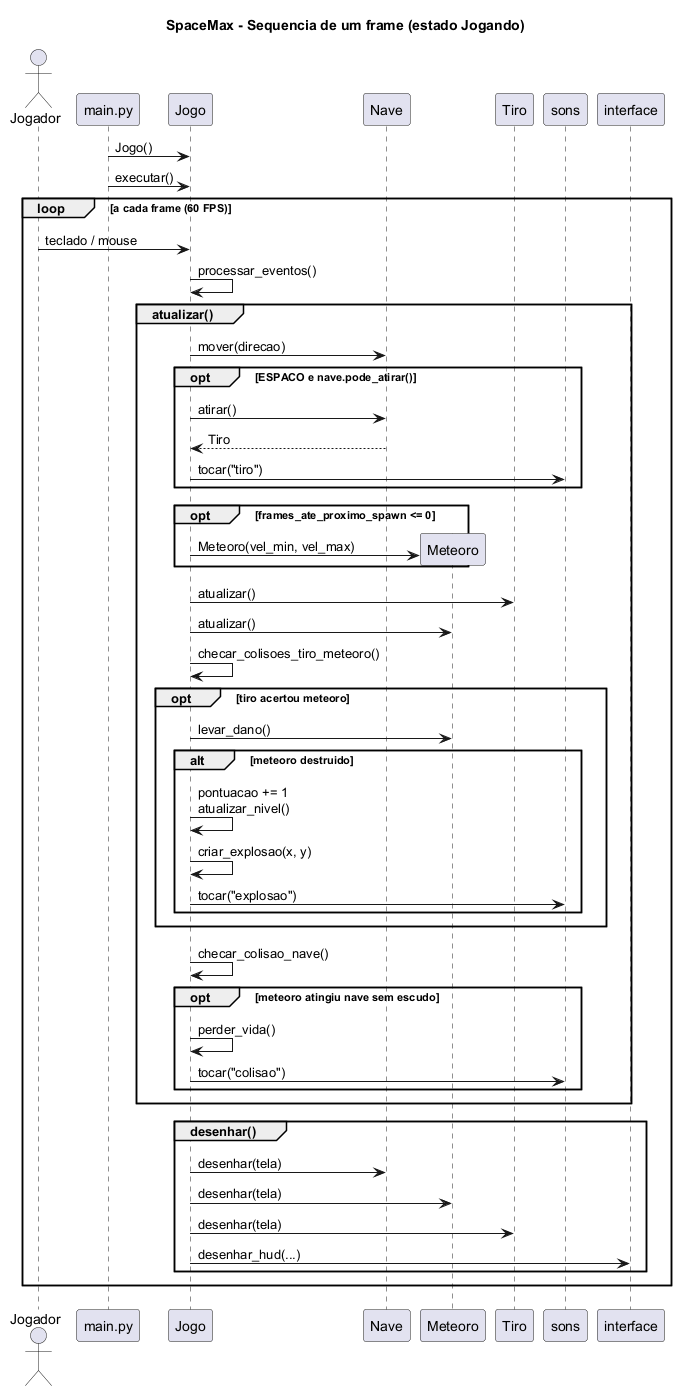
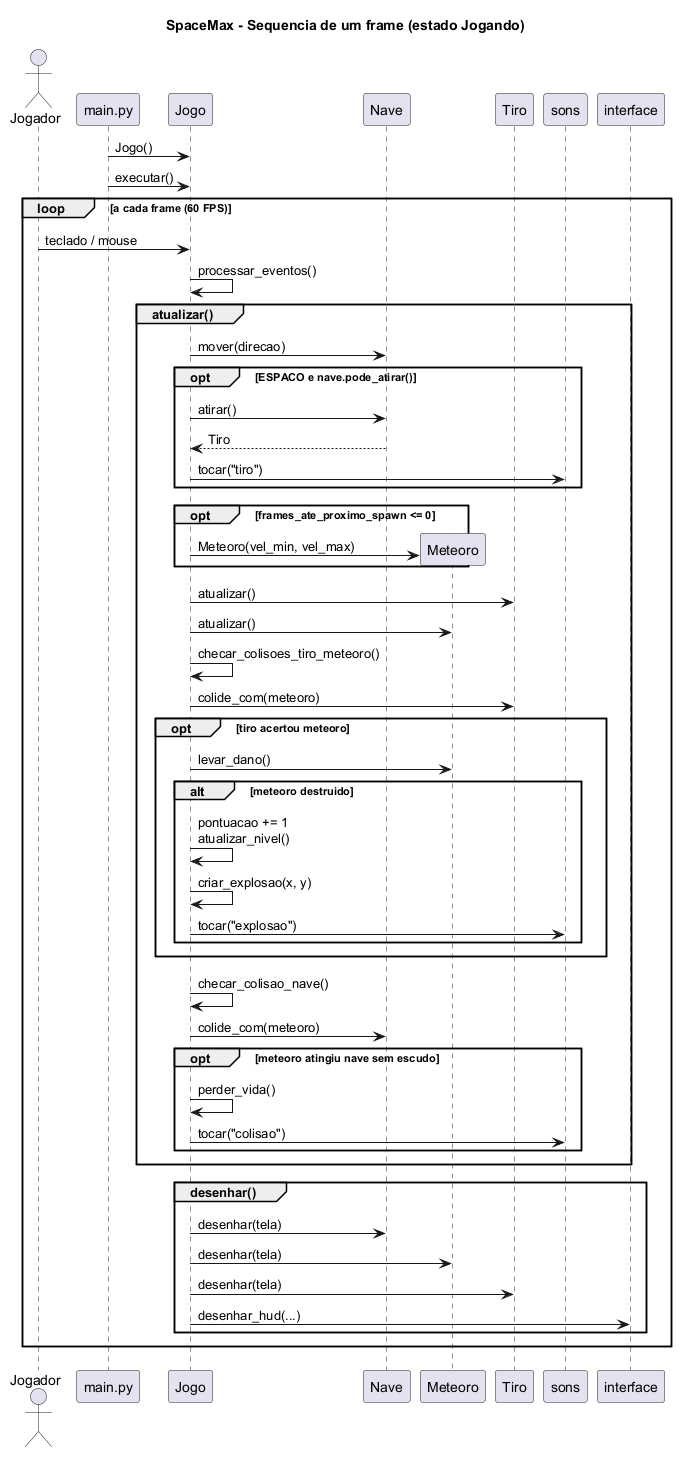
att

diff --git a/README.md b/README.md
@@ -71,6 +71,7 @@ Os diagramas ficam em `docs/uml/`:
 | --- | --- |
 | `classes.puml` | diagrama de classes completo (atributos, metodos e relacoes) |
 | `estados.puml` | maquina de estados do jogo (Inicio, Jogando, Game Over) |
+| `sequencia_partida.puml` | sequencia de uma partida completa (inicio, jogo, game over, reinicio) |
 | `sequencia_frame.puml` | sequencia de chamadas em um frame do jogo |
 | `pacotes.puml` | dependencias entre os modulos |
 | `gerado/classes_py2puml.puml` | diagrama gerado automaticamente a partir do codigo pelo **py2puml** |
